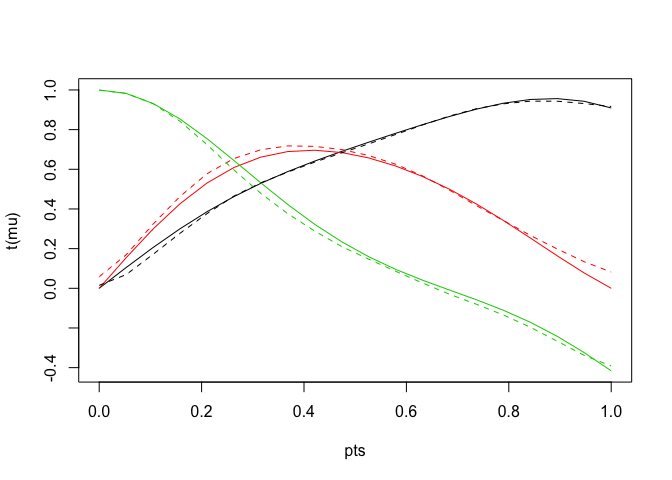
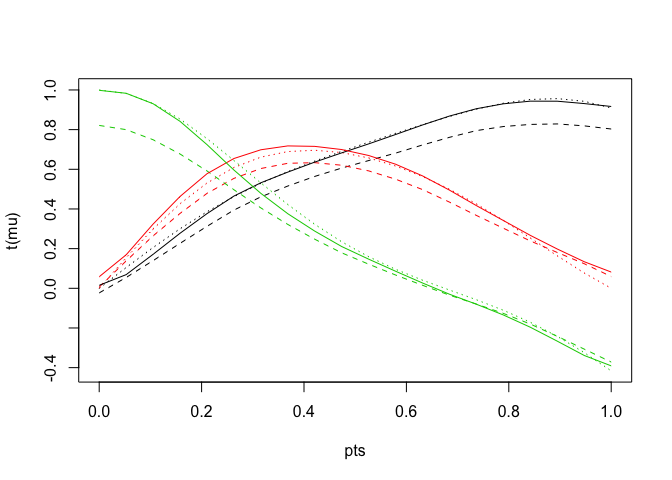
export CFPCA, update readme

diff --git a/README.md b/README.md
@@ -1,4 +1,4 @@
-Riemannian Functional Principal Component analysis
+Riemannian Functional Principal Component Analysis
 ================
 
 This is the R package `RFPCA` implementing the sparse and dense
@@ -7,7 +7,7 @@ Riemannian functional principal component analysis methods. C.f.
   - Dai, X., & Müller, H. G. (2018). Principal component analysis for
     functional data on riemannian manifolds and spheres. The Annals of
     Statistics, 46(6B), 3334-3361.
-  - Dai, X., Lin, Z., & Müller, H. G. (2018). Modeling Longitudinal Data
+  - Dai, X., Lin, Z., & Müller, H. G. (2019). Modeling Longitudinal Data
     on Riemannian Manifolds. [ArXiv](https://arxiv.org/abs/1812.04774)
 
 ## Installation
@@ -20,7 +20,8 @@ devtools::install_github('CrossD/RFPCA')
 
 ## Example on a sphere
 
-First simulate some sparse Riemannian functional data on \(S^2\)
+First simulate some sparse Riemannian functional data on S^2, the
+2-dimensional unit sphere in R^3.
 
 ``` r
 library(RFPCA)
@@ -28,6 +29,7 @@ library(RFPCA)
 set.seed(1)
 n <- 50
 m <- 20 # Number of different time points
+
 K <- 20
 lambda <- 0.07 ^ (seq_len(K) / 2)
 D <- 3
@@ -40,11 +42,11 @@ VList <- list(
   function(x) rep(0, length(x))
 )
 pts <- seq(0, 1, length.out=m)
-mfd <- structure(1, class='Sphere')
-mu <- Makemu(mfd, VList, p0=c(rep(0, D - 1), 1), pts)
+mfdSp <- structure(1, class='Sphere')
+mu <- Makemu(mfdSp, VList, p0=c(rep(0, D - 1), 1), pts)
 
 # Generate noisy samples
-samp <- MakeMfdProcess(mfd, n, mu, pts, K = K, lambda=lambda, 
+samp <- MakeMfdProcess(mfdSp, n, mu, pts, K = K, lambda=lambda, 
                        basisType=basisType, sigma2=sigma2)
 spSamp <- SparsifyM(samp$X, samp$T, sparsity)
 yList <- spSamp$Ly
@@ -60,16 +62,23 @@ kern <- 'epan'
 resSp <- RFPCA(yList, tList, 
                list(userBwMu=bw, userBwCov=bw * 2, 
                     kernel=kern, maxK=K, 
-                    mfd=mfd, error=TRUE))
+                    mfd=mfdSp, error=TRUE))
+resEu <- RFPCA(yList, tList, 
+               list(userBwMu=bw, userBwCov=bw * 2, 
+                    kernel=kern, maxK=K, 
+                    mfd=structure(1, class='Euclidean'), 
+                    error=TRUE))
 ```
 
-Plot the mean
-function
+Plot the mean function
 
 ``` r
-# Solid curve stands for the true mean and dashed for the estimated mean function.
-matplot(pts, t(mu), type='l', lty=1)
-matplot(pts, t(resSp$muObs), type='l', lty=2, add=TRUE)
+# Dotted curve stands for the true mean, 
+# dashed for the estimated mean function using the euclidean method, 
+# and solid for our intrinsic Riemannian method.
+matplot(pts, t(mu), type='l', lty=3)
+matplot(pts, t(resEu$muObs), type='l', lty=2, add=TRUE)
+matplot(pts, t(resSp$muObs), type='l', lty=1, add=TRUE)
 ```
 
 ![](README_files/figure-gfm/unnamed-chunk-4-1.png)<!-- -->
